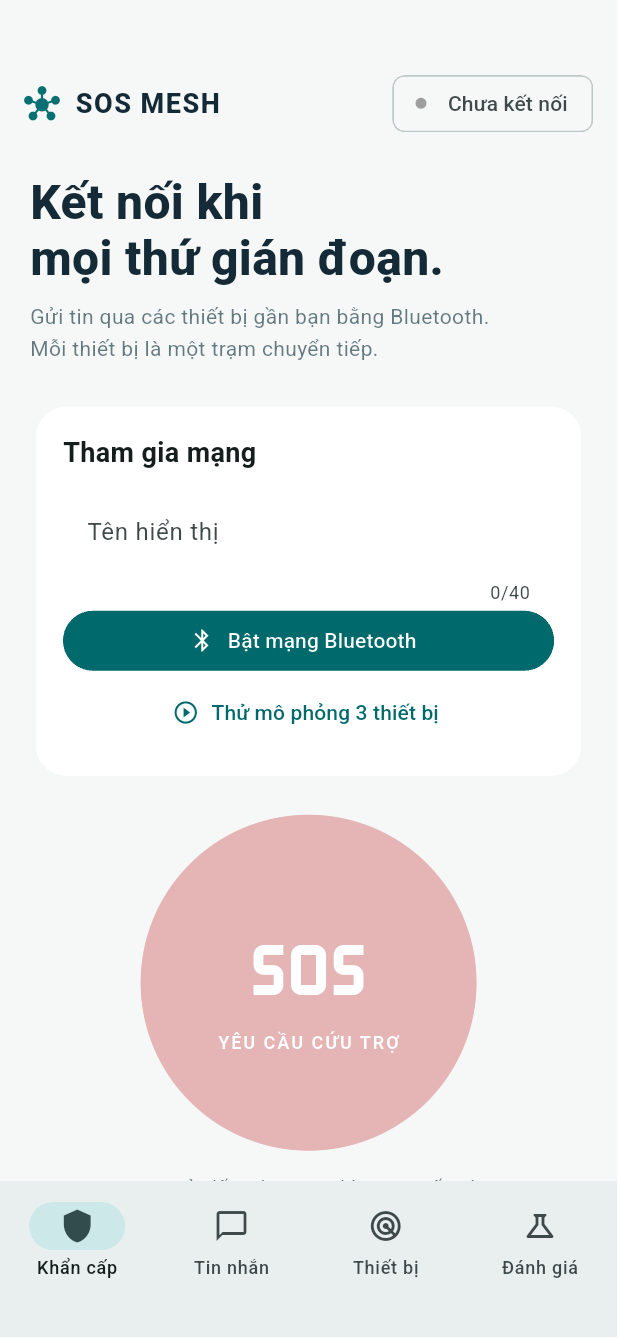
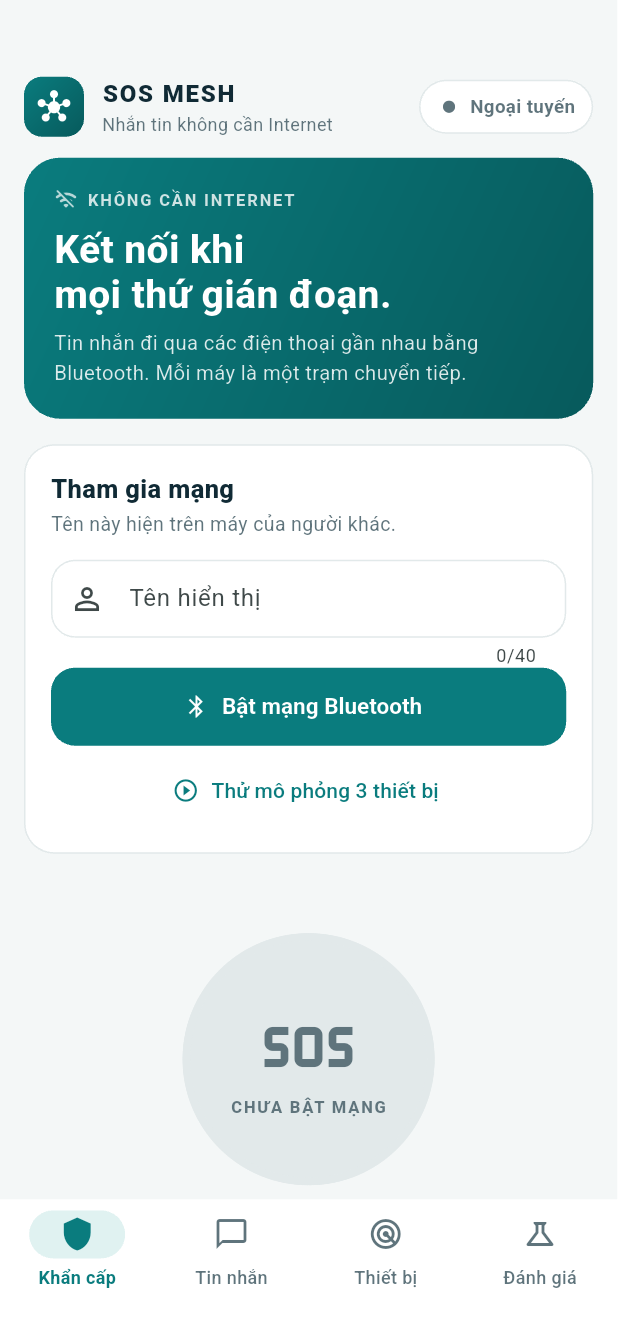
Refresh screenshots and test results after the UI upgrade

diff --git a/README.md b/README.md
@@ -14,7 +14,7 @@ Flutter + Kotlin · Android 8.0 trở lên (API 26) · Đồ án môn học
 
 ### 1. Khẩn cấp
 - **Nút SOS** phát tín hiệu cầu cứu tới mọi thiết bị trong mạng, **kèm tọa độ GPS** nếu có. Nếu sau 12 giây chưa lấy được GPS, SOS vẫn được gửi và ứng dụng báo rõ là không kèm vị trí.
-- **Mô tả nhanh tình trạng** bằng các nút chọn sẵn: *Bị thương*, *Bị mắc kẹt*, *Cần nước uống*, *Cần thuốc*, hoặc tự gõ (tối đa 250 ký tự).
+- **Mô tả nhanh tình trạng** bằng các nút chọn sẵn (bật/tắt): *Bị thương*, *Bị mắc kẹt*, *Cần nước uống*, *Cần thuốc*, kèm ghi chú tự gõ (tối đa 200 ký tự). Hộp thoại hiện trước đúng nội dung sẽ gửi.
 - **Cảnh báo SOS trên máy nhận:** hộp cảnh báo đỏ kèm rung, hiện tên người gửi, nội dung, số chặng đã đi, tọa độ GPS và nút sao chép tọa độ.
 - **"Tôi an toàn":** báo cho cả mạng biết mình đã an toàn chỉ bằng một chạm.
 - SOS được **ưu tiên gửi trước** mọi loại tin khác khi đồng bộ với máy mới gặp.
@@ -25,7 +25,8 @@ Flutter + Kotlin · Android 8.0 trở lên (API 26) · Đồ án môn học
 - **Xác nhận đã nhận (ACK) cho tin riêng:** trạng thái đổi từ ⏱ *Đang chờ xác nhận* sang ✓✓ *Người nhận đã xác nhận*. ACK được ký số và chỉ được chấp nhận khi đến từ đúng người nhận.
 - **Hiện đúng tên người gửi** kể cả khi họ cách nhiều chặng.
 - Mỗi tin nhận được ghi **số chặng đã đi** và trạng thái chữ ký hợp lệ.
-- Giao diện chat dạng bong bóng; chọn người nhận bằng các chip ngay trên khung chat.
+- Giao diện chat dạng bong bóng, **tách theo cuộc trò chuyện**: chip *Toàn mạng* chỉ hiện kênh chung (SOS, an toàn, tin công khai); chip tên một người chỉ hiện tin riêng với người đó. Tin được nhóm theo ngày (*Hôm nay*, *Hôm qua*, ngày cụ thể).
+- **Giao diện sáng/tối** theo cài đặt hệ thống; nhãn trạng thái mạng ở đầu màn hình bấm được để mở danh sách thiết bị; hỗ trợ TalkBack cho nút SOS, tiêu đề và cảnh báo.
 
 ### 3. Mạng mesh và lưu chờ chuyển tiếp
 - **Hai vai trò BLE cùng lúc:** mỗi máy vừa quảng bá như máy chủ GATT (peripheral), vừa quét và chủ động kết nối (central), nên không cần máy nào làm trung tâm.
@@ -119,8 +120,8 @@ docs/              Kiến trúc, kế hoạch kiểm thử, kết quả xác min
 ## Kiểm thử
 
 - `flutter analyze`: không có lỗi.
-- `flutter test`: **21/21 test đạt**. Các test gồm: ký và chống sửa gói, phân mảnh MTU 23, chuyển tiếp A–B–C, chống trùng trên mạng tam giác, lưu chờ chuyển tiếp, ACK, gói giả mạo, ưu tiên SOS, tên người gửi qua nhiều chặng, gộp kết nối trùng, giao diện trên màn hình nhỏ.
-- Integration test trên Android đạt ở bản ngày 06/10/2026, **chưa chạy lại** sau khi làm lại giao diện.
+- `flutter test`: **29/29 test đạt**. Các test gồm: ký và chống sửa gói, phân mảnh MTU 23, chuyển tiếp A–B–C, chống trùng trên mạng tam giác, lưu chờ chuyển tiếp, ACK, gói giả mạo, ưu tiên SOS, tên người gửi qua nhiều chặng, gộp kết nối trùng, giao diện trên màn hình nhỏ, giao diện tối, lọc tin theo cuộc trò chuyện, soạn SOS, nhãn ngày.
+- Integration test trên Android (emulator Pixel 7 Pro, API 37) **đạt ngày 06/11/2026** sau khi nâng cấp giao diện; ảnh trong `docs/screenshots/` chụp từ lần chạy này.
 - **BLE trên điện thoại thật chưa được kiểm chứng.** Kế hoạch đo nằm ở [docs/TEST_PLAN.md](docs/TEST_PLAN.md).
 
 ## Giới hạn

diff --git a/docs/VERIFICATION.md b/docs/VERIFICATION.md
@@ -2,6 +2,18 @@
 
 Nhóm thực hiện: **Trần Gia Thịnh** (nhóm trưởng, 2380602136), Đỗ Minh Quang (2380601802), Nguyễn Thanh Hải (1911065203), Hồ Uy Thiện (2380602107).
 
+## Cập nhật 06/11/2026 — nâng cấp giao diện (nhánh `feat/ux-ui`)
+
+| Kiểm tra | Kết quả |
+|---|---|
+| `flutter analyze` | Không có issue |
+| `flutter test` | 29 test đạt (21 cũ + 8 mới: giao diện tối, lọc tin theo cuộc trò chuyện, soạn SOS, nhãn ngày, nhãn trạng thái mở tab Thiết bị) |
+| Android integration | Đạt trên emulator Pixel 7 Pro / API 37; ảnh `screenshots/` chụp lại từ lần chạy này (giao diện sáng) |
+
+Hai lỗi giao diện tìm thấy khi chạy integration và đã sửa: thông báo nổi "Đã phát SOS" che nút gửi tin sau khi chuyển tab (nay tự ẩn khi đổi tab); ô thống kê ở tab Đánh giá tràn 4.7 px trên Pixel 7 Pro (đổi tỉ lệ ô lưới). Giao diện tối chỉ được kiểm bằng widget test, chưa chụp ảnh.
+
+## Kết quả 06/10/2026
+
 Môi trường: Windows, Flutter 3.47.4 stable / Dart 3.13.3, Android Studio JBR, emulator Pixel 7 Pro / Android API 37.
 
 | Kiểm tra | Kết quả |

diff --git a/README.vi.md b/README.vi.md
@@ -90,7 +90,7 @@ Chữ ký xác nhận khóa nguồn phát, không chứng minh tên/người/cơ
 
 Chưa triển khai iOS, bản đồ offline và giao diện điều chỉnh duty cycle. Không dùng số CPU simulator làm số đo latency BLE.
 
-Kết quả hiện tại (18/10/2026): analyzer sạch, 21 test đạt. Integration Android đạt ở bản 06/10/2026, chưa chạy lại sau khi làm lại giao diện; ảnh trong `docs/screenshots/` vẫn là giao diện cũ. Xem [kết quả xác minh](docs/VERIFICATION.md).
+Kết quả hiện tại (06/11/2026): analyzer sạch, 29 test đạt. Integration Android đạt trên emulator Pixel 7 Pro (API 37) sau khi nâng cấp giao diện; ảnh trong `docs/screenshots/` chụp từ lần chạy này. Xem [kết quả xác minh](docs/VERIFICATION.md).
 
 ## Nhóm thực hiện
 
